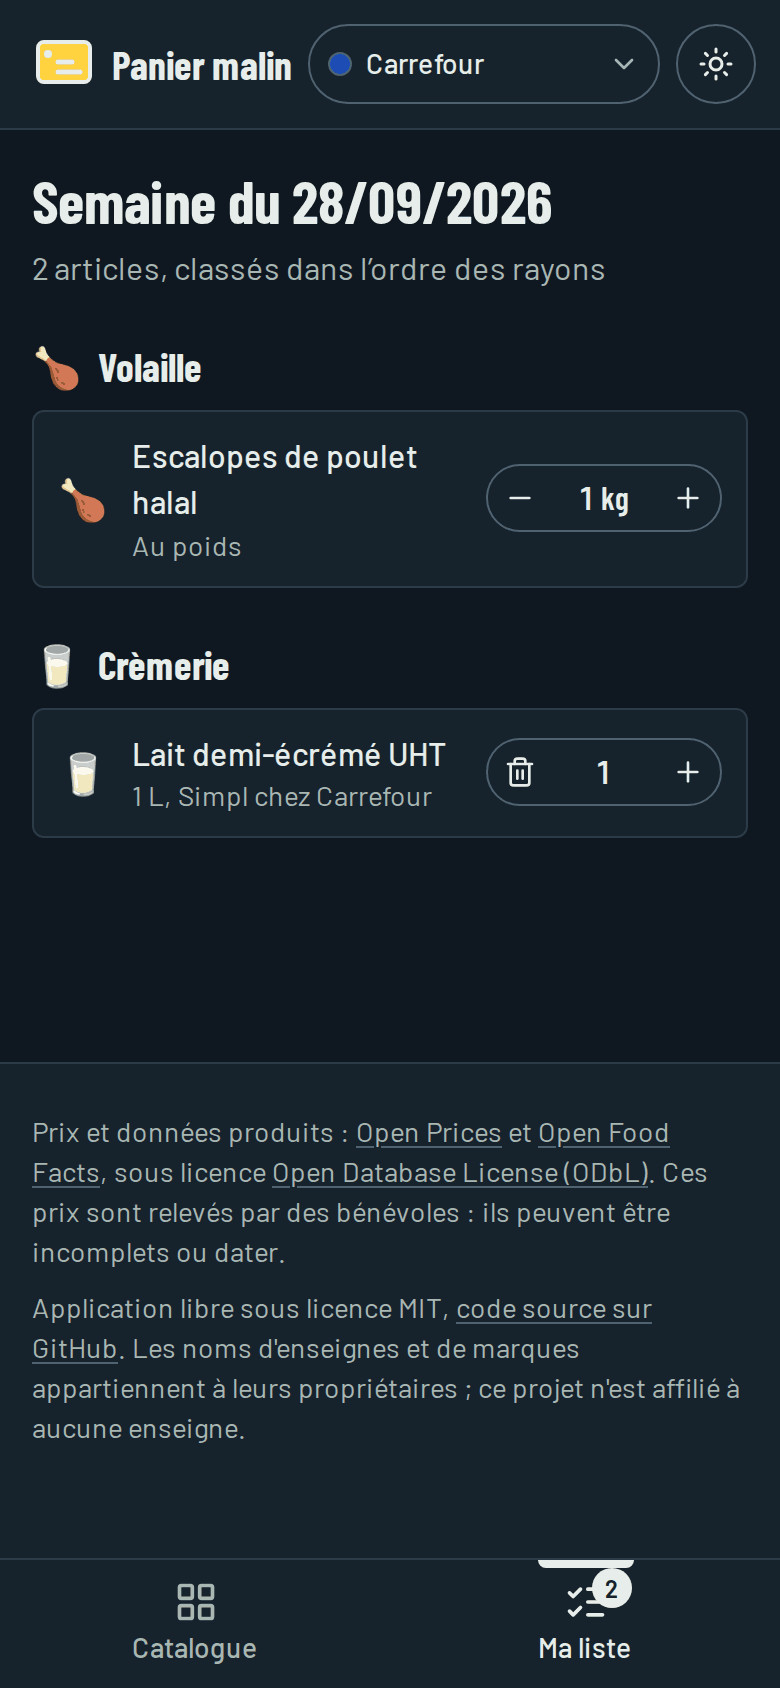
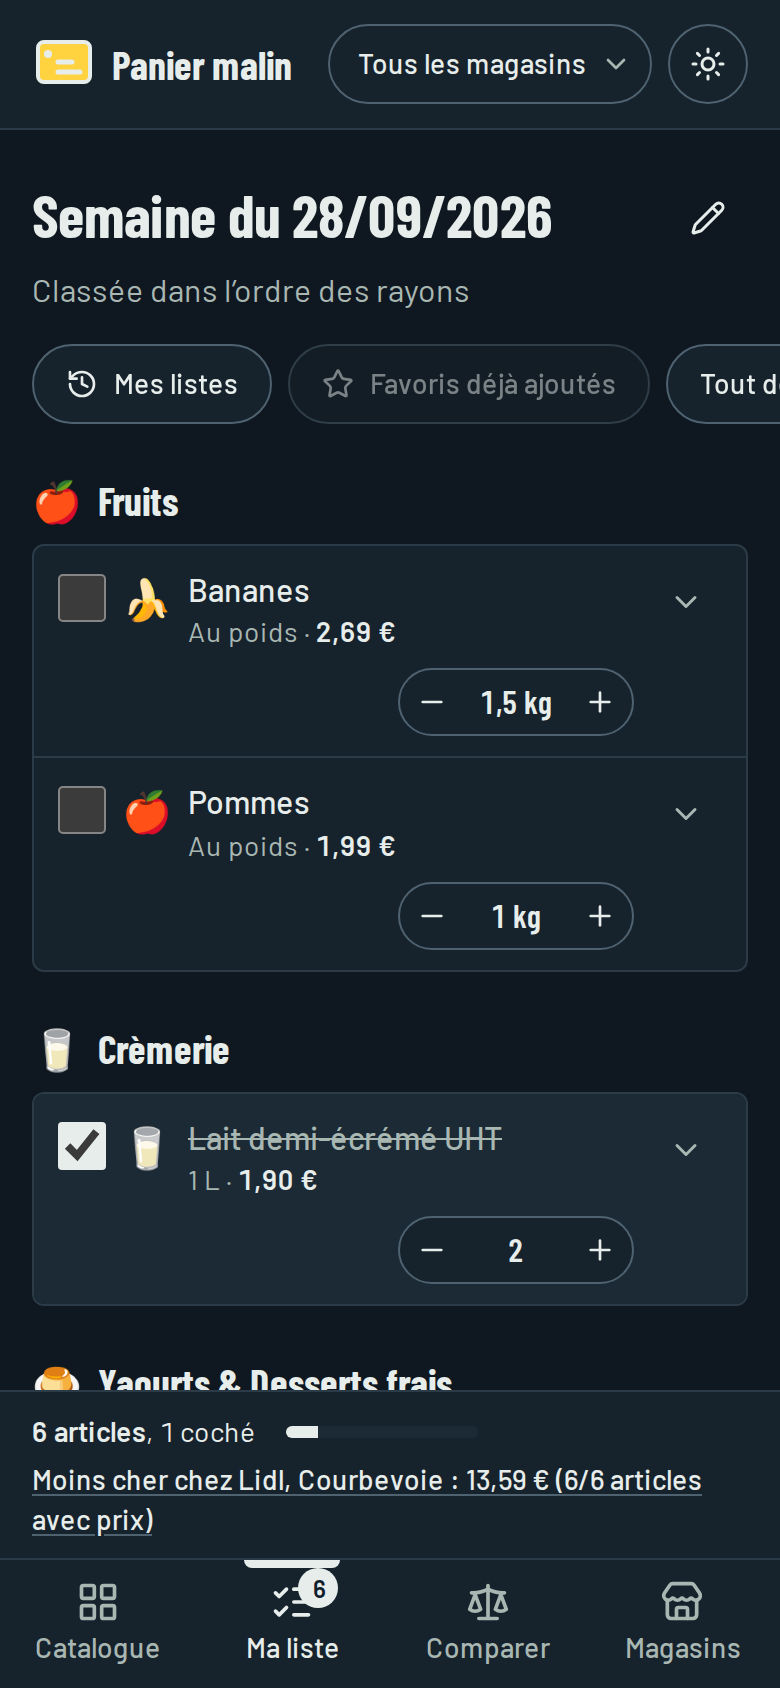
docs: README et guide de contribution pour la V1
- fonctionnalités, feuille de route terminée, commandes, organisation
  du code, cache et rythme des appels à Open Prices
- compléter les codes-barres avec les scripts, méthode de comparaison,
  limites connues, données personnelles, choix techniques
- captures du comparateur et de la liste avec les prix

diff --git a/README.md b/README.md
@@ -4,36 +4,47 @@ Liste de courses de la semaine et comparateur de prix entre magasins, alimenté 
 
 Application web libre, sans compte ni serveur : tout reste dans votre navigateur.
 
-> **État du projet : étape 1 sur 6 terminée (catalogue).** Les prix Open Prices, le comparateur, le panier optimal et l'export PDF arrivent dans les étapes suivantes, décrites dans la [feuille de route](#feuille-de-route).
+> **État du projet : V1 complète (étapes 1 à 6) et application installable.** La richesse des prix dépend des relevés Open Prices et des codes-barres du catalogue : voir les [limites connues](#limites-connues).
 
 <p>
   <img src="docs/captures/catalogue-mobile.png" width="260" alt="Catalogue sur mobile : rayon Volaille, fiches certifiées halal, magasin Carrefour choisi">
-  <img src="docs/captures/liste-mode-sombre.png" width="260" alt="Liste de la semaine en mode sombre, classée par rayon">
+  <img src="docs/captures/liste-mode-sombre.png" width="260" alt="Liste de la semaine en mode sombre, classée par rayon, avec le prix de chaque article et le total estimé">
 </p>
+<img src="docs/captures/comparateur-ordinateur.png" width="800" alt="Comparateur sur ordinateur, exemple avec des prix saisis : total par magasin, panier optimal et tableau article par magasin">
 <img src="docs/captures/catalogue-ordinateur.png" width="800" alt="Catalogue sur ordinateur : rayon Crèmerie, chaque fiche indique la marque à prendre chez Lidl">
 
-## Ce que fait l'application aujourd'hui
+## Ce que fait l'application
 
 - **Catalogue halal de 195 produits courants**, rangés dans 22 rayons présentés dans l'ordre de passage en magasin. Ni porc, ni alcool, ni gélatine de porc ; la viande et la volaille sont certifiées halal.
-- **Une fiche par produit** : vous ajoutez « Bananes » ou « Lait demi-écrémé UHT, 1 L », sans choisir de marque. Derrière chaque fiche, l'application connaît la gamme la moins chère de chaque enseigne (premier prix ou marque de l'enseigne), que le comparateur utilisera.
-- **Recherche instantanée**, insensible aux accents et aux majuscules, par nom de produit ou par marque.
-- **« Mon magasin »**, en haut de l'écran : chaque fiche indique alors quoi prendre en rayon dans cette enseigne (« Chez Lidl : Milbona »).
+- **Une fiche par produit** : vous ajoutez « Bananes » ou « Lait demi-écrémé UHT, 1 L », sans choisir de marque. Derrière chaque fiche, l'application connaît la gamme la moins chère de chaque enseigne (premier prix ou marque de l'enseigne), et le comparateur s'en sert.
+- **Recherche instantanée**, insensible aux accents et aux majuscules, filtres « Mes favoris » et « Prix connu uniquement », tri par prix.
+- **« Mon magasin »**, en haut de l'écran : chaque fiche indique quoi prendre en rayon dans cette enseigne (« Chez Lidl : Milbona ») et son prix dans vos magasins.
 - **Produits personnalisés** : pour un produit précis, saisissez son code-barres ; l'application récupère le nom, la marque, la photo et le format sur Open Food Facts.
-- **Liste de la semaine** classée par rayon, avec quantités à la pièce ou au poids.
+- **Liste de la semaine** : nom modifiable, quantités à la pièce ou au poids, notes, cases à cocher en magasin, classement par rayon ou par magasin, historique des semaines, reprise de la liste précédente, ajout des favoris en un geste, et un bandeau avec le total estimé.
+- **Mes magasins** : jusqu'à 10 magasins précis, trouvés sur Open Prices par ville, par nom ou autour de vous, ou ajoutés à la main ; un magasin principal.
+- **Des prix sourcés** : relevés Open Prices et vos propres saisies. Chaque prix indique son magasin, sa date et sa source ; un relevé de plus de trois mois est signalé ; sans relevé, « Prix non disponible » et un bouton pour saisir le vôtre, puis le partager sur Open Prices.
+- **Comparateur** : total par magasin en cartes et en barres, économie en euros et en pourcentage, couverture, deux modes (articles communs ou estimation complète), tableau article par magasin en vert et rouge, historique des prix en courbes.
+- **Panier optimal** : la répartition la moins chère entre 1 à 3 magasins, avec une économie minimale par magasin supplémentaire, applicable à la liste en un geste.
+- **Export PDF** : une liste A4 en noir et blanc par magasin, avec cases à cocher, et le tableau comparatif en paysage ; impression directe de la liste.
+- **Application installable** sur téléphone et ordinateur, utilisable hors connexion avec les derniers prix chargés ; sauvegarde et restauration de vos données dans un fichier.
 - Mode sombre, affichage adapté au téléphone, navigation complète au clavier et au lecteur d'écran.
 
 ## Feuille de route
 
-| Étape | Contenu                                                                                                                     | État     |
-| ----- | --------------------------------------------------------------------------------------------------------------------------- | -------- |
-| 1     | Catalogue, recherche, filtres, produits personnalisés                                                                       | Terminée |
-| 2     | Liste complète : nom modifiable, notes, cases à cocher, historique des semaines, duplication, favoris, bandeau du total     | À faire  |
-| 3     | Prix Open Prices : service groupé, cache de 24 h, saisie manuelle, choix des magasins proches, propositions de codes-barres | À faire  |
-| 4     | Comparateur : total par magasin, économies, couverture, tableau produit par magasin, historique des prix                    | À faire  |
-| 5     | Panier optimal réparti sur 1 à 3 magasins                                                                                   | À faire  |
-| 6     | Export PDF par magasin et tableau comparatif, impression                                                                    | À faire  |
+| Étape | Contenu                                                                                                               | État     |
+| ----- | --------------------------------------------------------------------------------------------------------------------- | -------- |
+| 1     | Catalogue, recherche, filtres, produits personnalisés                                                                 | Terminée |
+| 2     | Liste complète : nom modifiable, notes, cases à cocher, historique des semaines, reprise, favoris, bandeau du total   | Terminée |
+| 3     | Magasins et prix : Open Prices groupé, cache de 24 h, saisie manuelle, magasins proches, propositions de codes-barres | Terminée |
+| 4     | Comparateur : total par magasin, économies, couverture, tableau produit par magasin, historique des prix              | Terminée |
+| 5     | Panier optimal réparti sur 1 à 3 magasins                                                                             | Terminée |
+| 6     | Export PDF par magasin et tableau comparatif, impression                                                              | Terminée |
+| Bonus | Application installable et utilisable hors connexion (PWA)                                                            | Terminée |
 
-Ensuite : application installable et utilisable hors ligne (PWA), puis synchronisation entre appareils avec Supabase, juste après la V1. Le code est préparé pour cette synchronisation : les données passeront par une interface de stockage unique, locale aujourd'hui, distante demain.
+Ensuite :
+
+- **Synchronisation entre appareils avec Supabase.** L'interface est prête (`src/services/sync.ts`) : un adaptateur distant n'aura qu'à envoyer et recevoir un instantané des données. En attendant, « Magasins > Vos données » exporte et importe une sauvegarde.
+- **Compléter les codes-barres des références** avec le [script de propositions](#compléter-les-codes-barres), pour que les produits emballés aient leurs prix Open Prices.
 
 ## Démarrer en local
 
@@ -48,31 +59,35 @@ npm run dev
 
 L'application s'ouvre sur http://localhost:5173.
 
-| Commande            | Rôle                                                          |
-| ------------------- | ------------------------------------------------------------- |
-| `npm run dev`       | Serveur de développement avec rechargement à chaud            |
-| `npm run build`     | Vérification des types puis build de production dans `dist/`  |
-| `npm run preview`   | Sert le build de production en local                          |
-| `npm test`          | Tests unitaires et d'interface (Vitest, Testing Library, MSW) |
-| `npm run lint`      | ESLint                                                        |
-| `npm run format`    | Formate le code avec Prettier                                 |
-| `npm run typecheck` | Vérification TypeScript seule                                 |
+| Commande                                | Rôle                                                                           |
+| --------------------------------------- | ------------------------------------------------------------------------------ |
+| `npm run dev`                           | Serveur de développement avec rechargement à chaud                             |
+| `npm run build`                         | Vérification des types puis build de production dans `dist/`                   |
+| `npm run preview`                       | Sert le build de production en local                                           |
+| `npm test`                              | Tests unitaires et d'interface (Vitest, Testing Library, MSW)                  |
+| `npm run lint`                          | ESLint                                                                         |
+| `npm run format`                        | Formate le code avec Prettier                                                  |
+| `npm run typecheck`                     | Vérification TypeScript seule                                                  |
+| `npm run format:check`                  | Vérifie le formatage, comme l'intégration continue                             |
+| `npm run eans:proposer`                 | Propose des codes-barres pour les références, à relire (accès Internet requis) |
+| `npm run eans:appliquer -- fichier.csv` | Ajoute au catalogue les codes-barres validés                                   |
 
 ## Organisation du code
 
 ```
 src/
-├── components/     composants d'interface (catalog, layout, providers, ui)
+├── components/     interface : catalog, compare, layout, list, pdf, prices, providers, ui
 ├── data/           catalogue (products.json), rayons, enseignes
-├── hooks/          contextes React et état persistant
-├── pages/          écrans : catalogue, liste
+├── hooks/          contextes React, état persistant, offres et comparaison
+├── pages/          écrans : catalogue, liste, comparer, magasins
 ├── services/       logique métier pure et accès aux API, chacun avec ses tests
 ├── test/           configuration des tests et réponses simulées des API
 ├── types/          modèle de données TypeScript
 └── utils/          texte, prix en centimes, codes-barres, unités, dates
+scripts/            propositions et application des codes-barres du catalogue
 ```
 
-La logique métier (filtres, liste, calculs de prix, comparaison) vit dans `src/services/` sous forme de fonctions pures, sans React, testées indépendamment de l'interface.
+La logique métier (filtres, liste, calculs de prix, comparaison, panier optimal, contenu des PDF) vit dans `src/services/` sous forme de fonctions pures, sans React, testées indépendamment de l'interface. Les prix passent par l'interface `PriceProvider` (`src/services/priceProviders.ts`) : Open Prices et vos saisies en sont deux implémentations, et le comparateur ne dépend que d'elle.
 
 ## Le catalogue
 
@@ -129,7 +144,7 @@ Pour ajouter une fiche ou corriger une référence, suivez le [guide de contribu
 L'application interroge directement, depuis votre navigateur :
 
 - **Open Food Facts** pour retrouver un produit à partir de son code-barres (nom, marque, photo, format) ;
-- **Open Prices** (à partir de l'étape 3) pour les prix relevés en magasin, les magasins, et l'historique des prix.
+- **Open Prices** pour les magasins, les prix relevés et l'historique des prix.
 
 Ces données sont collaboratives : des bénévoles photographient des tickets et des étiquettes. Elles sont donc **incomplètes et parfois anciennes**. L'application le montre toujours : chaque prix indique sa source, sa date et son magasin, un prix de plus de trois mois est signalé, et un produit sans relevé affiche « Prix non disponible » avec la possibilité de saisir son propre prix.
 
@@ -137,21 +152,41 @@ Pour respecter ces services gratuits, l'application :
 
 - espace ses appels à Open Food Facts de 4 secondes, dans la limite de 15 lectures de produit par minute indiquée par leur documentation ;
 - garde en cache les fiches produits 30 jours (1 jour pour un produit introuvable) ;
-- regroupera ses demandes de prix par lots et les gardera en cache 24 heures.
+- regroupe ses demandes de prix (codes-barres par lots de 40, vrac de vos magasins en une seule requête, 5 pages au plus par requête, 300 ms entre deux appels) et les garde en cache 24 heures, même après fermeture de la page ; le bouton « Actualiser les prix » les recharge.
 
 Vous pouvez enrichir ces bases vous-même sur [Open Prices](https://prices.openfoodfacts.org) et [Open Food Facts](https://world.openfoodfacts.org) : chaque relevé ajouté profite à tous.
 
 **Licence des données.** Open Prices et Open Food Facts sont publiés sous [Open Database License (ODbL)](https://opendatacommons.org/licenses/odbl/1-0/). L'application les cite dans son pied de page. Toute base de données dérivée et rendue publique devrait elle aussi être publiée sous ODbL.
 
-## Méthode de comparaison (étapes 4 et 5)
+## Compléter les codes-barres
 
-Les règles ci-dessous ont été arrêtées avant l'implémentation ; elles seront codées dans `src/services/pricing.ts` et `src/services/comparator.ts`, avec leurs tests.
+Les références des enseignes (Milbona chez Lidl, Simpl chez Carrefour…) sont livrées **sans code-barres** : un code inventé donnerait de faux prix. Tant qu'une référence n'a pas de code, ses prix viennent de vos saisies ; le vrac (fruits, légumes) a déjà ses prix au kilo ou à la pièce par catégorie.
+
+Deux scripts aident à combler ce manque, avec une relecture humaine obligatoire :
+
+1. `npm run eans:proposer` interroge Open Prices (une requête par seconde) et écrit `scripts/out/propositions-eans.csv` : pour chaque référence, jusqu'à trois produits candidats, avec nom, marque, format, nombre de prix relevés et lien vers la fiche Open Food Facts. Options : `npm run eans:proposer -- --rayon cremerie --limite 20`.
+2. Ouvrez le fichier dans un tableur, vérifiez la photo et le format de chaque candidat, et écrivez « oui » dans la colonne `valider` des bons.
+3. `npm run eans:appliquer -- scripts/out/propositions-eans.csv` ajoute les codes validés, vérifie le catalogue (code valide, pas de doublon) et n'écrit rien en cas d'erreur.
+
+Ces scripts demandent un accès à Internet ; un assistant de code comme Claude Code peut aussi les lancer.
+
+## Méthode de comparaison
+
+Les règles sont codées dans `src/services/pricing.ts` et `src/services/comparator.ts`, sous forme de fonctions pures testées.
 
 - **Calculs en centimes entiers**, jamais en nombres à virgule, pour que les totaux tombent juste.
-- **Un prix par fiche et par magasin** : celui de la référence de l'enseigne, ou le prix au kilo du vrac. Quand le format de la référence diffère de celui de la fiche (couches par 44 ou par 48), le prix est ramené à l'unité, au kilo ou au litre avant d'être comparé.
-- **Choix du prix** : votre saisie manuelle passe d'abord ; puis le relevé le plus récent du magasin ; à défaut, un relevé d'un autre magasin de la même enseigne, signalé comme tel (option désactivable). Les prix promotionnels sont écartés, sauf si le prix hors promotion est connu.
-- **Deux modes de total** : « Articles communs » compare les magasins sur les seuls articles dont le prix est connu partout ; « Estimation complète » inclut tout ce qui est connu et affiche le taux de couverture.
-- **Panier optimal** : toutes les combinaisons de 1 à 3 magasins sont évaluées (175 combinaisons pour 10 magasins). La combinaison retenue couvre le plus d'articles, puis coûte le moins cher, chaque magasin supplémentaire devant faire économiser au moins le seuil choisi (par exemple 3 €). Les articles sans prix sont signalés « à vérifier ».
+- **Un prix par fiche et par magasin** : celui de la référence de l'enseigne, ou le prix au kilo ou à la pièce du vrac. Quand le format de la référence diffère de celui de la fiche (couches par 44 ou par 48), le coût compte les paquets entiers à acheter ; au poids, il est proportionnel. Le prix au kilo, au litre ou à la pièce est affiché pour comparer.
+- **Choix du prix** : votre saisie manuelle passe d'abord ; puis le relevé le plus récent du magasin ; à défaut, un relevé d'un autre magasin de la même enseigne, signalé comme tel (option désactivable). Les prix promotionnels sont écartés, sauf si le prix hors promotion est connu. Un relevé de plus de trois mois reste utilisé, mais signalé.
+- **Deux modes de total** : « Articles communs » compare les magasins sur les seuls articles dont le prix est connu partout ; « Estimation complète » inclut tout ce qui est connu et indique, pour chaque magasin, combien d'articles le total couvre ; seul un magasin qui couvre autant d'articles que les autres peut être désigné moins cher.
+- **Panier optimal** : toutes les combinaisons de 1 à 3 magasins sont évaluées (175 combinaisons pour 10 magasins). La combinaison retenue couvre le plus d'articles, puis coûte le moins cher, chaque magasin supplémentaire devant faire économiser au moins le seuil choisi (par exemple 3 €). Les articles sans prix sont signalés « à vérifier » et placés chez votre magasin principal. L'économie affichée est calculée par rapport au meilleur magasin unique, sur les articles qu'il connaît aussi.
+
+## Limites connues
+
+- **Peu de prix au départ** : sans codes-barres dans le catalogue (voir plus haut), seuls le vrac et vos saisies alimentent le comparateur. Plus les références sont complétées, plus la comparaison est riche.
+- **Données collaboratives** : selon les villes et les magasins, Open Prices peut compter peu de relevés, ou des relevés anciens ; c'est toujours signalé.
+- **Vérification en conditions réelles** : pendant le développement, l'accès à Open Prices et à Open Food Facts était bloqué. Les appels ont été écrits d'après le code source de ces services (paramètres, pagination, format des réponses) et testés sur des réponses simulées fidèles ; un premier essai réel reste à faire après la mise en ligne.
+- **H Market et Marka Market** n'ont pas de références dans le catalogue : leurs prix viennent de vos saisies.
+- **Pas encore de synchronisation automatique** entre appareils : utilisez l'export et l'import de sauvegarde.
 
 ## Déployer sur GitHub Pages
 
@@ -165,12 +200,15 @@ Le chemin du site suit automatiquement le nom du dépôt (variable `BASE_PATH`).
 ## Données personnelles
 
 - Pas de compte, pas de serveur, pas de mesure d'audience.
-- La liste, les préférences et les produits personnalisés sont enregistrés dans le stockage local du navigateur. Vider les données du site les efface.
-- Les recherches par code-barres, et plus tard les demandes de prix, partent de votre navigateur vers Open Food Facts et Open Prices, qui voient donc votre adresse IP, comme pour toute visite de leur site.
+- Listes, magasins, prix saisis, préférences et produits personnalisés sont enregistrés dans le stockage local du navigateur. Vider les données du site les efface ; exportez-les d'abord si besoin (« Magasins > Vos données »).
+- Les recherches par code-barres et les demandes de prix partent de votre navigateur vers Open Food Facts et Open Prices, qui voient donc votre adresse IP, comme pour toute visite de leur site.
+- « Autour de moi » n'utilise votre position qu'à votre demande, pour chercher les magasins proches sur Open Prices ; elle n'est pas enregistrée.
 
 ## Choix techniques
 
 - React 18, Vite 7, TypeScript strict, Tailwind CSS 4, React Router 7, icônes Lucide.
+- TanStack Query 5 pour les appels Open Prices et leur cache de 24 h conservé dans le navigateur ; Recharts 2 pour les courbes ; @react-pdf/renderer 4 pour les PDF ; vite-plugin-pwa 1 (Workbox 7) pour l'installation et le hors-connexion.
+- Les modules lourds (PDF, graphiques) ne sont chargés qu'au moment de s'en servir.
 - Tests : Vitest 3, Testing Library, MSW 2 pour simuler les API sans réseau.
 - Les versions majeures sont épinglées sur des versions dont l'API a été vérifiée pendant le développement ; des versions plus récentes existent (Vite 8, Vitest 5, ESLint 10, MSW 3) et pourront être adoptées après vérification.
 - Les données locales sont enregistrées avec un numéro de schéma, pour pouvoir migrer les listes des utilisateurs quand le modèle évolue.

diff --git a/CONTRIBUTING.md b/CONTRIBUTING.md
@@ -103,3 +103,14 @@ Le jambon et le saucisson ne sont acceptés que certifiés halal (jambon de dind
 - Chaque élément interactif est utilisable au clavier et porte un libellé explicite pour les lecteurs d'écran ; l'information ne repose jamais sur la couleur seule.
 - Les textes de l'interface sont en français, courts, à la voix active : un bouton dit ce qu'il fait (« Créer le produit », pas « Valider »).
 - Les appels aux API passent par les services existants, qui gèrent les limites de débit et le cache. Pas d'appel en masse : ces services sont gratuits et partagés.
+
+## Proposer des codes-barres avec le script
+
+Pour compléter les codes-barres des références sans les chercher un par un :
+
+1. `npm run eans:proposer` (accès Internet requis) écrit `scripts/out/propositions-eans.csv`, avec jusqu'à trois candidats par référence trouvés sur Open Prices. Pour un premier essai : `npm run eans:proposer -- --rayon cremerie --limite 20`.
+2. Relisez chaque ligne : ouvrez le lien Open Food Facts, vérifiez la marque, la photo et le format, puis écrivez « oui » dans la colonne `valider` des candidats exacts. Dans le doute, laissez vide.
+3. `npm run eans:appliquer -- scripts/out/propositions-eans.csv` ajoute les codes validés et vérifie le catalogue ; rien n'est écrit en cas d'erreur.
+4. Lancez `npm test`, puis proposez la modification de `src/data/products.json` en précisant, pour chaque code, d'où vient la vérification.
+
+Ne validez jamais un code-barres que vous n'avez pas vérifié : un mauvais code fait apparaître les prix d'un autre produit.
